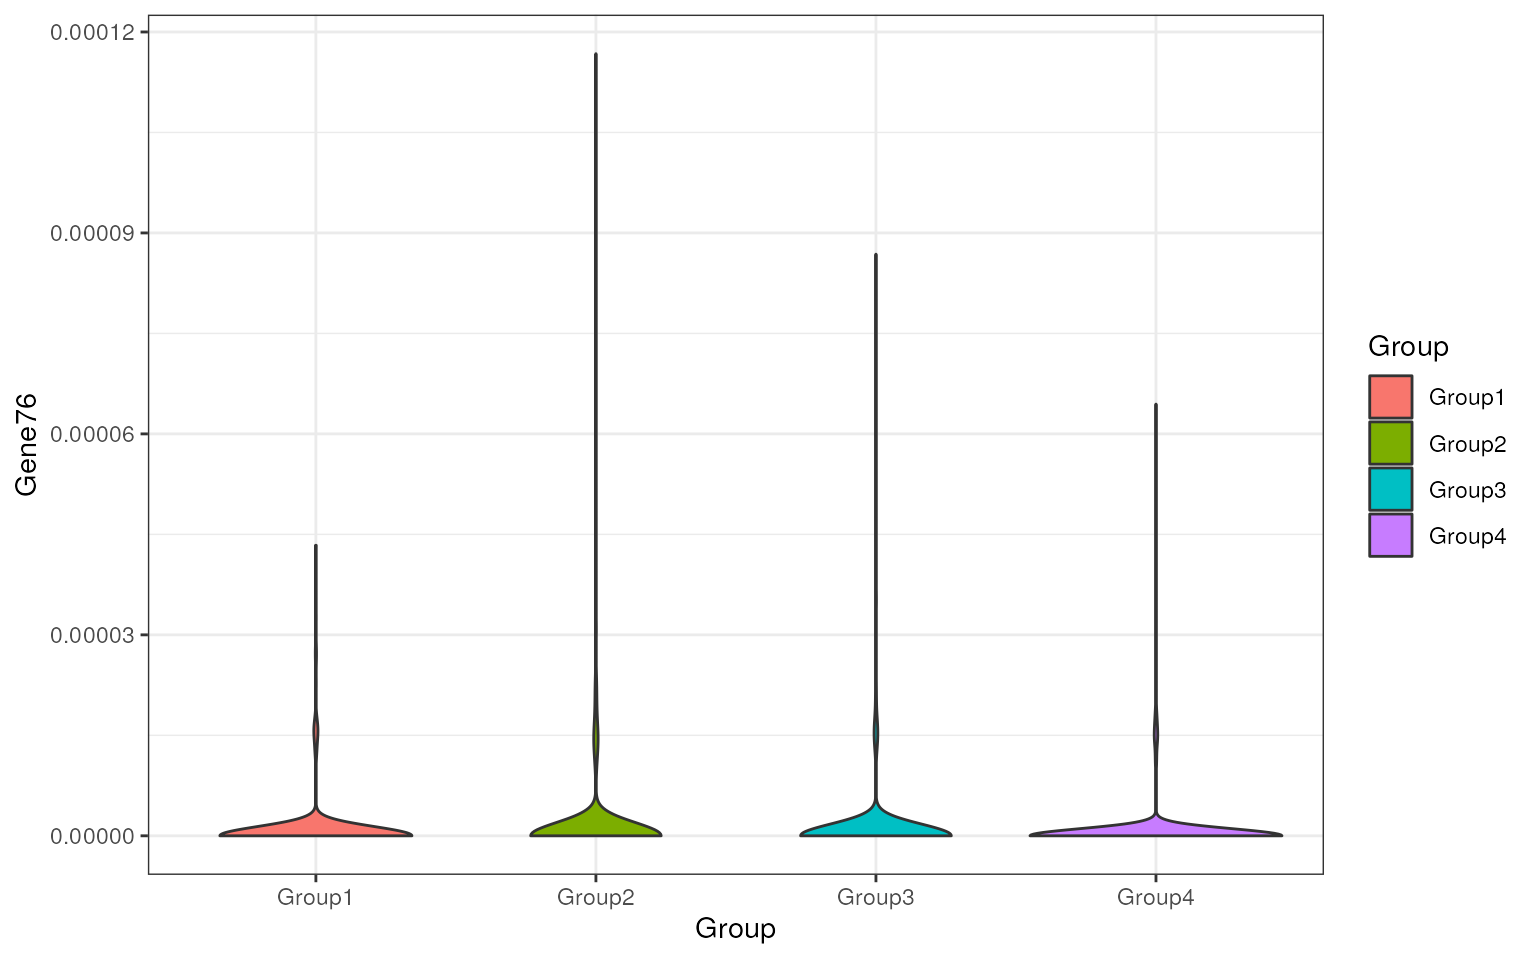
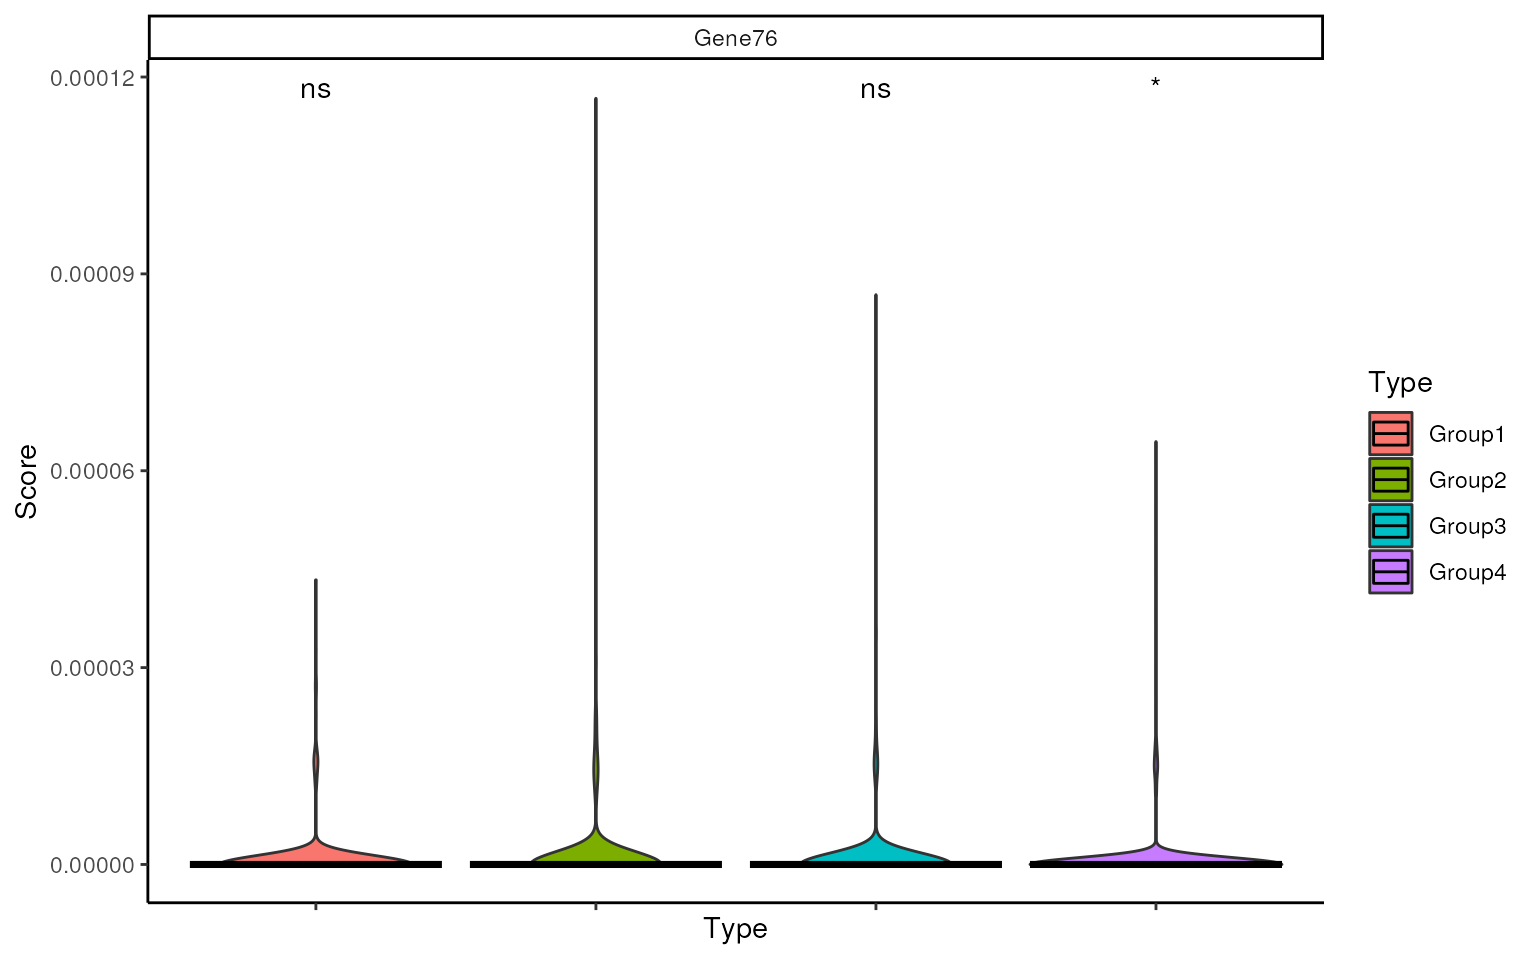
Deploying to gh-pages from @ DavisLaboratory/smartid@27f0ddc92122b9ca82c25971a126c9ae246fa7c1 🚀

diff --git a/articles/smartid_Demo.html b/articles/smartid_Demo.html
@@ -270,7 +270,7 @@ quite fast.</p>
 <span>  <span class="op">)</span></span>
 <span><span class="op">)</span></span>
 <span><span class="co">#&gt;    user  system elapsed </span></span>
-<span><span class="co">#&gt;   0.196   0.008   0.204</span></span>
+<span><span class="co">#&gt;   0.197   0.008   0.205</span></span>
 <span></span>
 <span><span class="co">## score and tf,idf,iae all saved</span></span>
 <span><span class="fu"><a href="https://rdrr.io/pkg/SummarizedExperiment/man/SummarizedExperiment-class.html" class="external-link">assays</a></span><span class="op">(</span><span class="va">data_sim</span><span class="op">)</span></span>
@@ -338,12 +338,20 @@ and the average expression is quite low across all cells.</p>
 scale factor is higher in Group2, but the GeneMean is too small to be
 confident. Thus this gene won’t be selected by <code>smartid</code>.</p>
 <div class="sourceCode" id="cb7"><pre class="downlit sourceCode r">
-<code class="sourceCode R"><span><span class="fu"><a href="https://ggplot2.tidyverse.org/reference/ggplot.html" class="external-link">ggplot</a></span><span class="op">(</span><span class="fu"><a href="https://rdrr.io/r/base/data.frame.html" class="external-link">data.frame</a></span><span class="op">(</span></span>
-<span>  <span class="st">"Gene76"</span> <span class="op">=</span> <span class="fu"><a href="https://rdrr.io/r/methods/slot.html" class="external-link">slot</a></span><span class="op">(</span><span class="va">data_sim</span>, <span class="st">"metadata"</span><span class="op">)</span><span class="op">$</span><span class="va">tf</span><span class="op">[</span><span class="st">"Gene76"</span>, <span class="op">]</span>,</span>
-<span>  Group <span class="op">=</span> <span class="va">data_sim</span><span class="op">$</span><span class="va">Group</span></span>
-<span><span class="op">)</span><span class="op">)</span> <span class="op">+</span></span>
-<span>  <span class="fu"><a href="https://ggplot2.tidyverse.org/reference/geom_violin.html" class="external-link">geom_violin</a></span><span class="op">(</span><span class="fu"><a href="https://ggplot2.tidyverse.org/reference/aes.html" class="external-link">aes</a></span><span class="op">(</span>x <span class="op">=</span> <span class="va">Group</span>, y <span class="op">=</span> <span class="va">Gene76</span>, fill <span class="op">=</span> <span class="va">Group</span><span class="op">)</span><span class="op">)</span> <span class="op">+</span></span>
-<span>  <span class="fu"><a href="https://ggplot2.tidyverse.org/reference/ggtheme.html" class="external-link">theme_bw</a></span><span class="op">(</span><span class="op">)</span></span></code></pre></div>
+<code class="sourceCode R"><span><span class="fu"><a href="../reference/sin_score_boxplot.html">sin_score_boxplot</a></span><span class="op">(</span></span>
+<span>  <span class="fu">metadata</span><span class="op">(</span><span class="va">data_sim</span><span class="op">)</span><span class="op">$</span><span class="va">tf</span>,</span>
+<span>  features <span class="op">=</span> <span class="st">"Gene76"</span>,</span>
+<span>  ref.group <span class="op">=</span> <span class="st">"Group2"</span>,</span>
+<span>  label <span class="op">=</span> <span class="va">data_sim</span><span class="op">$</span><span class="va">Group</span></span>
+<span><span class="op">)</span></span>
+<span><span class="co">#&gt; Warning: `add_rownames()` was deprecated in dplyr 1.0.0.</span></span>
+<span><span class="co">#&gt; <span style="color: #00BBBB;">ℹ</span> Please use `tibble::rownames_to_column()` instead.</span></span>
+<span><span class="co">#&gt; <span style="color: #00BBBB;">ℹ</span> The deprecated feature was likely used in the <span style="color: #0000BB;">smartid</span> package.</span></span>
+<span><span class="co">#&gt;   Please report the issue at</span></span>
+<span><span class="co">#&gt;   <span style="color: #0000BB; font-style: italic;">&lt;https://github.com/DavisLaboratory/smartid/issues&gt;</span>.</span></span>
+<span><span class="co">#&gt; <span style="color: #555555;">This warning is displayed once every 8 hours.</span></span></span>
+<span><span class="co">#&gt; <span style="color: #555555;">Call `lifecycle::last_lifecycle_warnings()` to see where this warning was</span></span></span>
+<span><span class="co">#&gt; <span style="color: #555555;">generated.</span></span></span></code></pre></div>
 <p><img src="smartid_Demo_files/figure-html/unnamed-chunk-6-1.png" width="768"></p>
 <div class="sourceCode" id="cb8"><pre class="downlit sourceCode r">
 <code class="sourceCode R"><span></span>
@@ -426,10 +434,11 @@ cells, thus not confident enough to be selected as markers.</p>
 marker selection. Here is another example using <code>mclust</code>.
 Different from <code><a href="../reference/markers_mixmdl.html">markers_mixmdl()</a></code>,
 <code><a href="../reference/markers_mclust.html">markers_mclust()</a></code> doesn’t need a pre-defined number of
-components (which is 3 in <code><a href="../reference/markers_mixmdl.html">markers_mixmdl()</a></code>), instead, it
-will select the number of components by searching a series of potential
-numbers. This method is sometimes more robust than
-<code><a href="../reference/markers_mixmdl.html">markers_mixmdl()</a></code>.</p>
+components (which is default 3 in <code><a href="../reference/markers_mixmdl.html">markers_mixmdl()</a></code>),
+instead, it will select the number of components by searching a series
+of potential numbers. This method is sometimes more robust than
+<code><a href="../reference/markers_mixmdl.html">markers_mixmdl()</a></code> but will also take longer running
+time.</p>
 <p>Similarly, this method also allows to plot the mixture distribution
 for each component, but separately.</p>
 <div class="sourceCode" id="cb15"><pre class="downlit sourceCode r">
@@ -482,7 +491,7 @@ need for data pre-processing, which is quite convenient and fast.</p>
 <span>  <span class="op">)</span></span>
 <span><span class="op">)</span></span>
 <span><span class="co">#&gt;    user  system elapsed </span></span>
-<span><span class="co">#&gt;   0.170   0.028   0.198</span></span>
+<span><span class="co">#&gt;   0.178   0.020   0.198</span></span>
 <span></span>
 <span><span class="co">## new score is saved and tf,idf,iae all updated</span></span>
 <span><span class="fu"><a href="https://rdrr.io/pkg/SummarizedExperiment/man/SummarizedExperiment-class.html" class="external-link">assays</a></span><span class="op">(</span><span class="va">data_sim</span><span class="op">)</span></span>
@@ -584,44 +593,47 @@ group from all others.</p>
 <span><span class="co">#&gt;  [23] cachem_1.0.8              beachmat_2.19.2          </span></span>
 <span><span class="co">#&gt;  [25] jsonlite_1.8.8            SnowballC_0.7.1          </span></span>
 <span><span class="co">#&gt;  [27] highr_0.10                DelayedArray_0.29.9      </span></span>
-<span><span class="co">#&gt;  [29] BiocParallel_1.37.1       irlba_2.3.5.1            </span></span>
-<span><span class="co">#&gt;  [31] parallel_4.4.0            R6_2.5.1                 </span></span>
-<span><span class="co">#&gt;  [33] bslib_0.7.0               stringi_1.8.3            </span></span>
-<span><span class="co">#&gt;  [35] jquerylib_0.1.4           Rcpp_1.0.12              </span></span>
-<span><span class="co">#&gt;  [37] bookdown_0.38             knitr_1.45               </span></span>
-<span><span class="co">#&gt;  [39] mixtools_2.0.0            splines_4.4.0            </span></span>
-<span><span class="co">#&gt;  [41] Matrix_1.7-0              tidyselect_1.2.1         </span></span>
-<span><span class="co">#&gt;  [43] abind_1.4-5               yaml_2.3.8               </span></span>
-<span><span class="co">#&gt;  [45] viridis_0.6.5             codetools_0.2-19         </span></span>
-<span><span class="co">#&gt;  [47] plyr_1.8.9                lattice_0.22-6           </span></span>
-<span><span class="co">#&gt;  [49] tibble_3.2.1              withr_3.0.0              </span></span>
-<span><span class="co">#&gt;  [51] evaluate_0.23             survival_3.5-8           </span></span>
-<span><span class="co">#&gt;  [53] desc_1.4.3                mclust_6.1               </span></span>
-<span><span class="co">#&gt;  [55] kernlab_0.9-32            pillar_1.9.0             </span></span>
-<span><span class="co">#&gt;  [57] BiocManager_1.30.22       janeaustenr_1.0.0        </span></span>
-<span><span class="co">#&gt;  [59] checkmate_2.3.1           plotly_4.10.4            </span></span>
-<span><span class="co">#&gt;  [61] generics_0.1.3            RCurl_1.98-1.14          </span></span>
-<span><span class="co">#&gt;  [63] sparseMatrixStats_1.15.0  munsell_0.5.0            </span></span>
-<span><span class="co">#&gt;  [65] scales_1.3.0              glue_1.7.0               </span></span>
-<span><span class="co">#&gt;  [67] lazyeval_0.2.2            tools_4.4.0              </span></span>
-<span><span class="co">#&gt;  [69] data.table_1.15.2         BiocNeighbors_1.21.2     </span></span>
-<span><span class="co">#&gt;  [71] tokenizers_0.3.0          ScaledMatrix_1.11.1      </span></span>
-<span><span class="co">#&gt;  [73] locfit_1.5-9.9            fs_1.6.3                 </span></span>
-<span><span class="co">#&gt;  [75] grid_4.4.0                tidyr_1.3.1              </span></span>
-<span><span class="co">#&gt;  [77] colorspace_2.1-0          nlme_3.1-164             </span></span>
-<span><span class="co">#&gt;  [79] GenomeInfoDbData_1.2.12   beeswarm_0.4.0           </span></span>
-<span><span class="co">#&gt;  [81] BiocSingular_1.19.0       vipor_0.4.7              </span></span>
-<span><span class="co">#&gt;  [83] cli_3.6.2                 rsvd_1.0.5               </span></span>
-<span><span class="co">#&gt;  [85] textshaping_0.3.7         fansi_1.0.6              </span></span>
-<span><span class="co">#&gt;  [87] segmented_2.0-3           S4Arrays_1.3.6           </span></span>
-<span><span class="co">#&gt;  [89] viridisLite_0.4.2         dplyr_1.1.4              </span></span>
-<span><span class="co">#&gt;  [91] gtable_0.3.4              sass_0.4.9               </span></span>
-<span><span class="co">#&gt;  [93] digest_0.6.35             SparseArray_1.3.4        </span></span>
-<span><span class="co">#&gt;  [95] ggrepel_0.9.5             htmlwidgets_1.6.4        </span></span>
-<span><span class="co">#&gt;  [97] farver_2.1.1              memoise_2.0.1            </span></span>
-<span><span class="co">#&gt;  [99] htmltools_0.5.8           pkgdown_2.0.7            </span></span>
-<span><span class="co">#&gt; [101] lifecycle_1.0.4           httr_1.4.7               </span></span>
-<span><span class="co">#&gt; [103] MASS_7.3-60.2</span></span></code></pre></div>
+<span><span class="co">#&gt;  [29] BiocParallel_1.37.1       broom_1.0.5              </span></span>
+<span><span class="co">#&gt;  [31] irlba_2.3.5.1             parallel_4.4.0           </span></span>
+<span><span class="co">#&gt;  [33] R6_2.5.1                  bslib_0.7.0              </span></span>
+<span><span class="co">#&gt;  [35] stringi_1.8.3             car_3.1-2                </span></span>
+<span><span class="co">#&gt;  [37] jquerylib_0.1.4           Rcpp_1.0.12              </span></span>
+<span><span class="co">#&gt;  [39] bookdown_0.38             knitr_1.45               </span></span>
+<span><span class="co">#&gt;  [41] mixtools_2.0.0            splines_4.4.0            </span></span>
+<span><span class="co">#&gt;  [43] Matrix_1.7-0              tidyselect_1.2.1         </span></span>
+<span><span class="co">#&gt;  [45] abind_1.4-5               yaml_2.3.8               </span></span>
+<span><span class="co">#&gt;  [47] viridis_0.6.5             codetools_0.2-19         </span></span>
+<span><span class="co">#&gt;  [49] plyr_1.8.9                lattice_0.22-6           </span></span>
+<span><span class="co">#&gt;  [51] tibble_3.2.1              withr_3.0.0              </span></span>
+<span><span class="co">#&gt;  [53] evaluate_0.23             survival_3.5-8           </span></span>
+<span><span class="co">#&gt;  [55] desc_1.4.3                mclust_6.1               </span></span>
+<span><span class="co">#&gt;  [57] kernlab_0.9-32            pillar_1.9.0             </span></span>
+<span><span class="co">#&gt;  [59] BiocManager_1.30.22       ggpubr_0.6.0             </span></span>
+<span><span class="co">#&gt;  [61] carData_3.0-5             janeaustenr_1.0.0        </span></span>
+<span><span class="co">#&gt;  [63] checkmate_2.3.1           plotly_4.10.4            </span></span>
+<span><span class="co">#&gt;  [65] generics_0.1.3            RCurl_1.98-1.14          </span></span>
+<span><span class="co">#&gt;  [67] sparseMatrixStats_1.15.0  munsell_0.5.0            </span></span>
+<span><span class="co">#&gt;  [69] scales_1.3.0              glue_1.7.0               </span></span>
+<span><span class="co">#&gt;  [71] lazyeval_0.2.2            tools_4.4.0              </span></span>
+<span><span class="co">#&gt;  [73] data.table_1.15.2         BiocNeighbors_1.21.2     </span></span>
+<span><span class="co">#&gt;  [75] tokenizers_0.3.0          ScaledMatrix_1.11.1      </span></span>
+<span><span class="co">#&gt;  [77] ggsignif_0.6.4            locfit_1.5-9.9           </span></span>
+<span><span class="co">#&gt;  [79] fs_1.6.3                  grid_4.4.0               </span></span>
+<span><span class="co">#&gt;  [81] tidyr_1.3.1               colorspace_2.1-0         </span></span>
+<span><span class="co">#&gt;  [83] nlme_3.1-164              GenomeInfoDbData_1.2.12  </span></span>
+<span><span class="co">#&gt;  [85] beeswarm_0.4.0            BiocSingular_1.19.0      </span></span>
+<span><span class="co">#&gt;  [87] vipor_0.4.7               cli_3.6.2                </span></span>
+<span><span class="co">#&gt;  [89] rsvd_1.0.5                textshaping_0.3.7        </span></span>
+<span><span class="co">#&gt;  [91] fansi_1.0.6               segmented_2.0-3          </span></span>
+<span><span class="co">#&gt;  [93] S4Arrays_1.3.6            viridisLite_0.4.2        </span></span>
+<span><span class="co">#&gt;  [95] dplyr_1.1.4               gtable_0.3.4             </span></span>
+<span><span class="co">#&gt;  [97] rstatix_0.7.2             sass_0.4.9               </span></span>
+<span><span class="co">#&gt;  [99] digest_0.6.35             SparseArray_1.3.4        </span></span>
+<span><span class="co">#&gt; [101] ggrepel_0.9.5             htmlwidgets_1.6.4        </span></span>
+<span><span class="co">#&gt; [103] farver_2.1.1              memoise_2.0.1            </span></span>
+<span><span class="co">#&gt; [105] htmltools_0.5.8           pkgdown_2.0.7            </span></span>
+<span><span class="co">#&gt; [107] lifecycle_1.0.4           httr_1.4.7               </span></span>
+<span><span class="co">#&gt; [109] MASS_7.3-60.2</span></span></code></pre></div>
 </div>
   </div>
 

diff --git a/reference/scale_mgm.html b/reference/scale_mgm.html
@@ -88,8 +88,11 @@
     </div>
     <div id="details">
     <h2>Details</h2>
-    <p>$$z=\frac{x-\frac{\sum_k^{n_D}(\mu_k)}{n_D}}{s_{pooled}}$$
-where \(s_{pooled}=\sqrt{\frac{\sum_k^{n_D}{(n_k-1){s_k}^2}}{\sum_k^{n_D}{n_k}-k}}\)</p>
+    <p>$$z=\frac{x-\frac{\sum_k^{n_D}(\mu_k)}{n_D}}{s}$$
+where \(\mu_k\) is the mean of x in \(k^{th}\) class, and \(n_D\) is
+the number of classes, \(s\) is the standard deviation of x,
+when <code>pooled.sd</code> is set to be TRUE, \(s\) will be replaced with
+\(s_{pooled}\), \(s_{pooled}=\sqrt{\frac{\sum_k^{n_D}{(n_k-1){s_k}^2}}{\sum_k^{n_D}{n_k}-k}}\)</p>
     </div>
 
     <div id="ref-examples">

diff --git a/news/index.html b/news/index.html
@@ -79,7 +79,7 @@
 </ul></div>
     <div class="section level2">
 <h2 class="page-header" data-toc-text="0.99.5" id="smartid-0995">smartid 0.99.5<a class="anchor" aria-label="anchor" href="#smartid-0995"></a></h2>
-<ul><li>Update <code><a href="../reference/scale_mgm.html">scale_mgm()</a></code> function using pooled SD, add details for scale function.</li>
+<ul><li>Update <code><a href="../reference/scale_mgm.html">scale_mgm()</a></code> function adding pooled SD option, add details for scale function.</li>
 </ul></div>
   </div>
 
